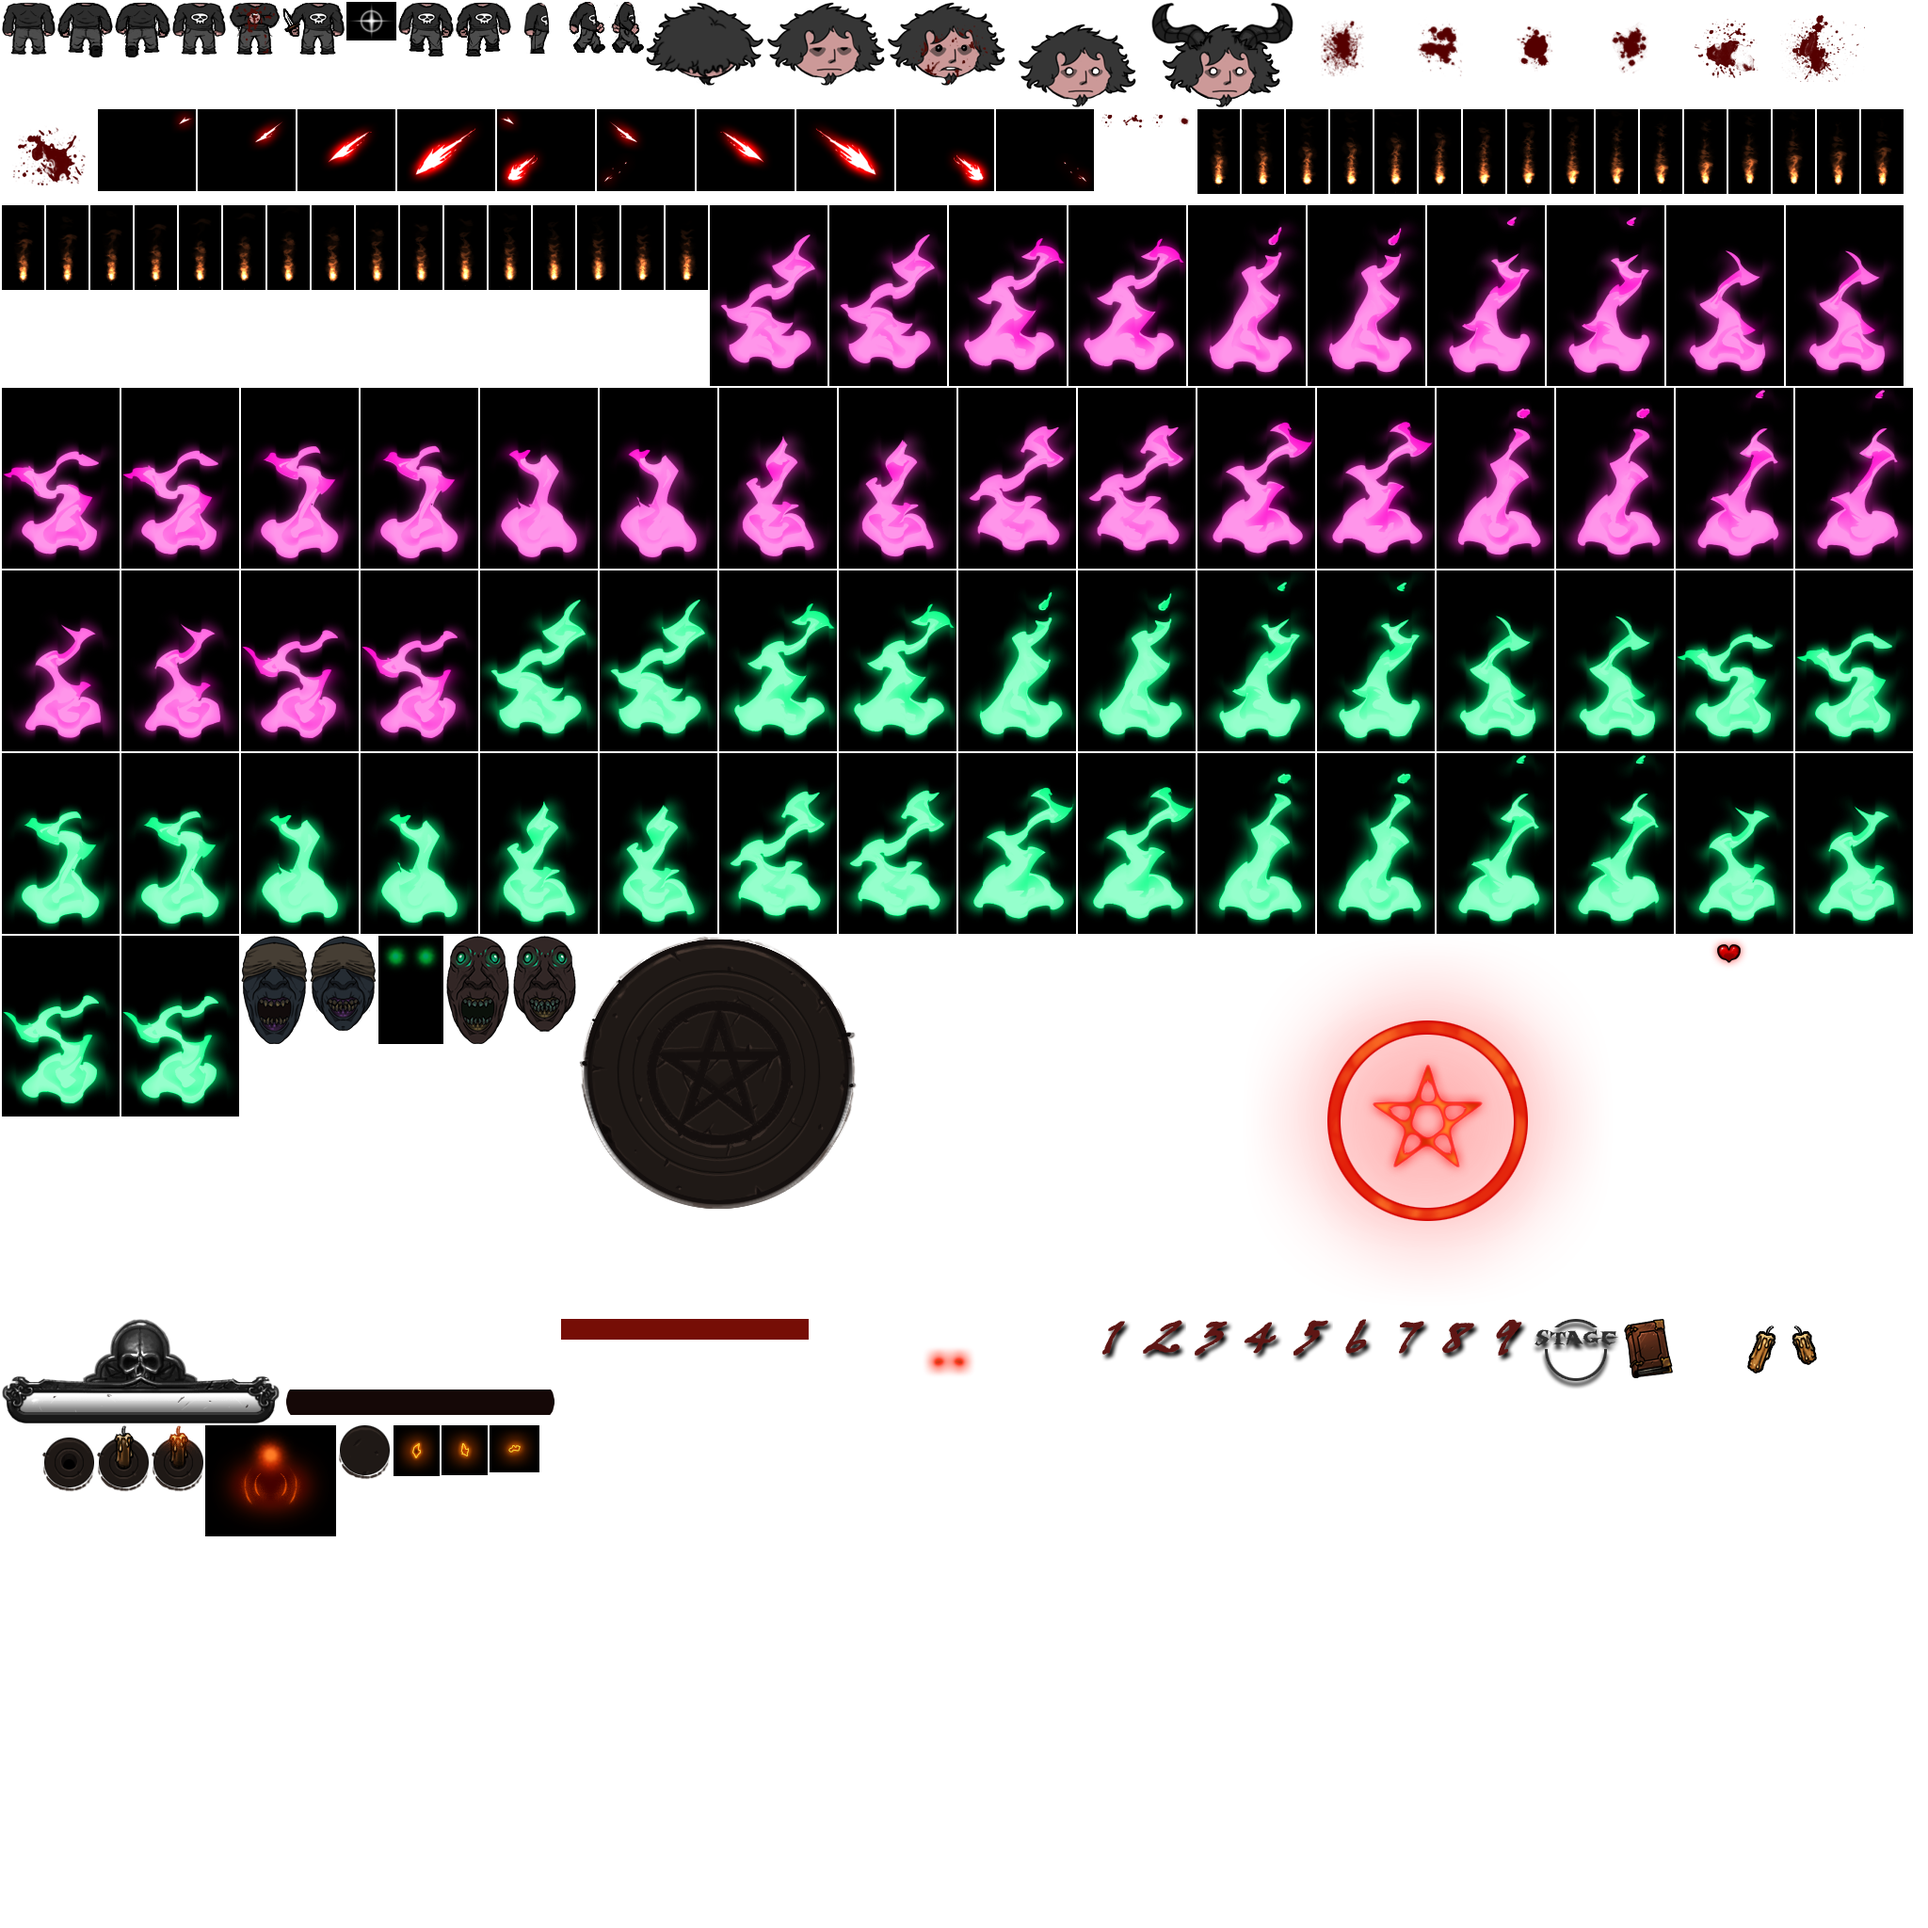
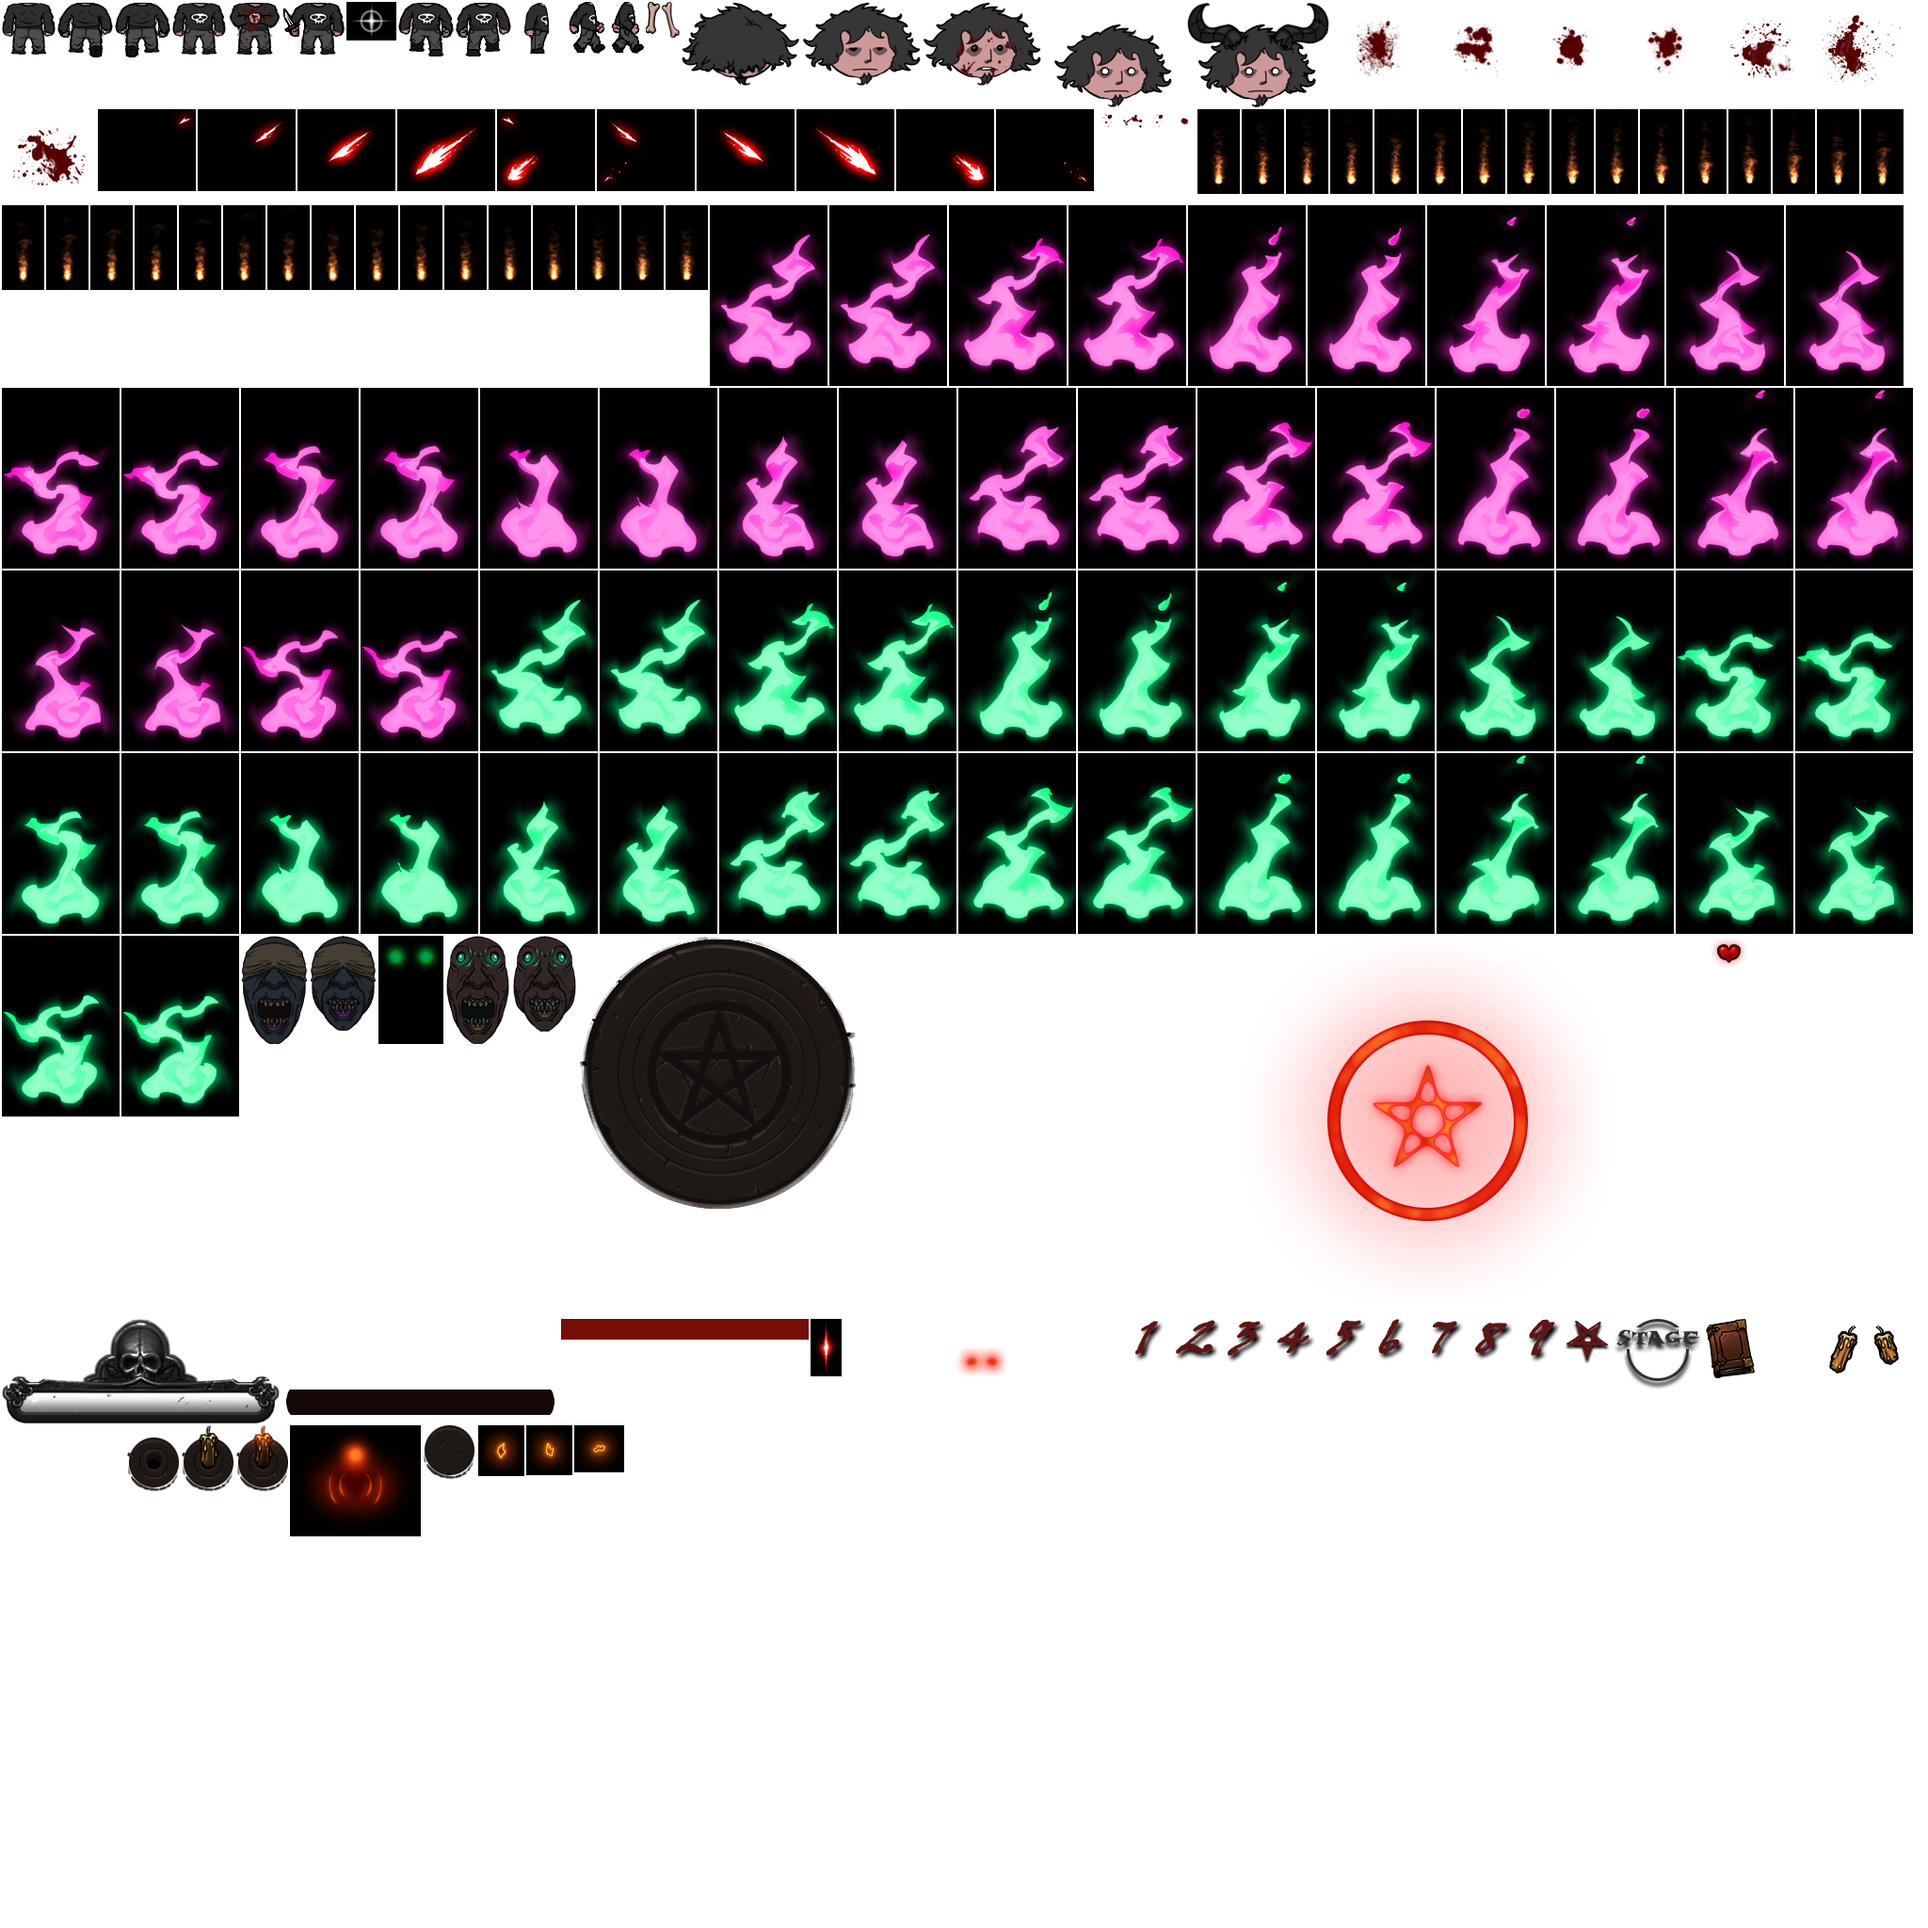
Finalizations: 1. bones 2. lifebar stuff 3. endscene

diff --git a/core/src/com/retrom/ggj2016/game/World.java b/core/src/com/retrom/ggj2016/game/World.java
@@ -10,6 +10,7 @@ import com.badlogic.gdx.graphics.glutils.ShapeRenderer.ShapeType;
 import com.badlogic.gdx.math.Vector2;
 import com.retrom.ggj2016.assets.Assets;
 import com.retrom.ggj2016.assets.SoundAssets;
+import com.retrom.ggj2016.objects.Bone;
 import com.retrom.ggj2016.objects.Book;
 import com.retrom.ggj2016.objects.Candle;
 import com.retrom.ggj2016.objects.CandlePoint;
@@ -65,6 +66,7 @@ public class World {
 	private Player player = new Player(lifebar);
 	private Heart heart = null;
 	private Book book;
+	final private List<Bone> bones = new ArrayList<Bone>();
 
 	private Painting painting;
 	
@@ -129,6 +131,7 @@ public class World {
 		state = GameState.BEFORE_CANDLES;
 		enemies.clear();
 		candles.clear();
+		bones.clear();
 		explosion = null;
 		deathTime = 0;
 		slashTime = 0;
@@ -297,9 +300,11 @@ public class World {
 			painTime -= deltaTime;
 		}
 		
-		if (gameTime < 0.5f && level > 0) {
+		if (gameTime < 4 && finish) {
+			whiteFade = 1 - gameTime / 4;
+		} else if (gameTime < 0.5f) {
 			float val = 1-(gameTime * 2);
-			if (newlevel) {
+			if (newlevel && level > 0) {
 				whiteFade = val;
 			} else {
 				fade = val;
@@ -307,6 +312,10 @@ public class World {
 		} else {
 			fade = 0;
 			whiteFade = 0;
+		}
+		
+		for (Bone bone : bones) {
+			bone.update(deltaTime);
 		}
 		
 		lifebar.update(deltaTime);
@@ -532,6 +541,11 @@ public class World {
 			SoundAssets.stopHeartBeat();
 			player.die();
 			SoundAssets.playSound(SoundAssets.playerDie);
+			int numbones = (int) (Math.random() * 6 + 6);
+			for (int i=0; i < numbones; i++) {
+				bones.add(new Bone(player.position.cpy()));
+				System.out.println("new bone");
+			}
 		}
 		if (explosion.getStarted()) {
 			for (int i=0; i < 600; i++) {
@@ -740,6 +754,11 @@ public class World {
 			if (hatch != null) hatch.render(batch);
 			player.render(batch);
 		}
+		
+		for (Bone bone : bones) {
+			bone.render(batch);
+		}
+		
 		if (!shouldShowLogo()) {
 			for (Candle candle : candles) {
 				if (state == GameState.BEFORE_CANDLES && candle.overPlayer())
@@ -817,42 +836,47 @@ public class World {
 			lifebar.render(shapeRenderer, batch);
 		}
 		
-		
-		renderFade(shapeRenderer);
-		
-		
 		if (shouldShowLogo()) {
 			BatchUtils.setBlendFuncNormal(batch);
 			batch.begin();
 			utils.drawCenter(batch, Assets.logo, 0, 0);
 			batch.end();
 		}
+		renderFade(shapeRenderer);
 	}
 	
 	private void renderEndScene(SpriteBatch batch, ShapeRenderer shapeRenderer) {
 		BatchUtils.setBlendFuncNormal(batch);
 		System.out.println("endscene");
-		batch.begin();
 		
 		Sprite note = Assets.endNote;
 		note.setAlpha(Math.min(1,gameTime * 2));
 		
 		System.out.println("gameTime="+gameTime);
 		
-		if (gameTime < 0.5f) {
-			float t = gameTime * 2;
+		gameTime -= 1; // Hack: move time backwards and then forward.
+		if (gameTime < 0) {
+			gameTime += 1;
+			return;
+		}
+		
+		batch.begin();
+		if (gameTime < 1f) {
+			float t = gameTime;
 			t = 1 - (1-t) * (1-t);
 			note.setScale(0.5f*(1-t) + t * 0.9f);
-			note.setRotation((-2)*(1-t) + -5f * t);
-			note.setAlpha(1);
+			note.setRotation((-5)*(1-t) + -2f * t);
+			note.setAlpha(t);
 		} else if (gameTime < 15f) {
-			float t = (gameTime - 0.5f) / 14.5f;
+			float t = (gameTime - 1f) / (15 - 1);
 			t = (float) Math.sqrt(t);
 			note.setScale(0.9f*(1-t) + 1 * t);
-			note.setRotation((-5)*(1-t) + 0f * t);
+			note.setRotation((-2)*(1-t) + 0f * t);
 			note.setAlpha(1);
-		} else if (gameTime < 20) {
-			float t = (gameTime - 15) / (20 - 15);
+		} else if (gameTime < 25) {
+			note.setAlpha(1);
+		} else if (gameTime < 30) {
+			float t = (gameTime - 25) / (30 - 25);
 			note.setAlpha(1-t);
 		} else {
 			note.setAlpha(0);
@@ -861,33 +885,35 @@ public class World {
 		
 		// First glow layer.
 		Sprite noteGlow = Assets.endNoteGlow;
-		if (gameTime < 15f) {
+		if (gameTime < 20.5f){
 			noteGlow.setAlpha(0);
-		} else if (gameTime < 18) {
-			float t = (gameTime - 15f) / 3;
-			noteGlow.setAlpha(t);
-		} else if (gameTime < 20.5f){
+		} else if (gameTime < 23) {
+			float t = (gameTime - 20.5f) / (23f - 20.5f);
+			noteGlow.setAlpha(Math.min(1, Math.max(0, t)));
+		} else if (gameTime < 35){
 			noteGlow.setAlpha(1);
 		} else {
-			float t = (gameTime - 23f) / (20.5f - 23f);
-			noteGlow.setAlpha(Math.min(1, Math.max(0, t)));
-		} 
+			float t = (gameTime - 35f) / (40f - 35f);
+			noteGlow.setAlpha(Math.max(0,  1-t));
+		}
 		utils.drawCenter(batch, noteGlow, 0, 0);
 		
 		// Second glow layer.
-		if (gameTime < 18) {
+		if (gameTime < 25) {
 			noteGlow.setAlpha(0);
-		} else if (gameTime < 20.5f) {
-			float t = (gameTime - 18) / (20.5f - 18f);
+		} else if (gameTime < 35f) {
+			float t = (gameTime - 25) / (35f - 25f);
 			noteGlow.setAlpha((float) Math.sin(t * Math.PI));
-		} else if (gameTime < 23f) {
+		} else if (gameTime < 40f) {
+			noteGlow.setAlpha(0);
+		} else {
 			noteGlow.setAlpha(0);
 		}
 		utils.drawCenter(batch, noteGlow, 0, 0);
 		
+		gameTime += 1;
 		
 		batch.end();
-//		renderFade(shapeRenderer);
 	}
 
 	private void openBook() {

diff --git a/core/src/com/retrom/ggj2016/objects/Bone.java b/core/src/com/retrom/ggj2016/objects/Bone.java
@@ -1,0 +1,70 @@
+package com.retrom.ggj2016.objects;
+
+import com.badlogic.gdx.graphics.g2d.Sprite;
+import com.badlogic.gdx.graphics.g2d.SpriteBatch;
+import com.badlogic.gdx.math.Vector2;
+import com.retrom.ggj2016.assets.Assets;
+import com.retrom.ggj2016.game.World;
+import com.retrom.ggj2016.utils.utils;
+
+public class Bone extends DynamicGameObject {
+	
+	final private Sprite sprite = Assets.bones.random();
+	
+	final private float scale = (float) (0.75f + Math.random() * 0.25f);
+	final private boolean flip = Math.random() < 0.5f;
+	
+	private float stateTime = 0;
+	float rotation = (float) (Math.random() * 360f);
+	int rotationSpeed = (int) Math.random() * 2 - 1;
+	
+	public Bone(Vector2 position) {
+		super(position.x, position.y, 0, 0);
+		velocity = utils.randomDir(400 + (float)Math.random() * 1200); 
+	}
+
+	public void update(float deltaTime) {
+		stateTime += deltaTime;
+		if (stateTime < Player.TIME_BEFORE_EXPLODE) return;
+		System.out.println("after explode.");
+		position.x += velocity.x * deltaTime;
+		position.y += velocity.y * deltaTime;
+		
+		if (position.x > World.BOUNDS) velocity.x = -Math.abs(velocity.x);
+		if (position.x < -World.BOUNDS) velocity.x = Math.abs(velocity.x);
+		if (position.y > World.BOUNDS) velocity.y = -Math.abs(velocity.y);
+		if (position.y < -World.BOUNDS) velocity.y = Math.abs(velocity.y);
+		
+		bounds.x = position.x - bounds.width / 2;
+		bounds.y = position.y - bounds.height / 2;
+		
+		velocity.x *= Math.pow(0.01, deltaTime);
+		velocity.y *= Math.pow(0.01, deltaTime);
+		
+		rotation += rotationSpeed * velocity.len() * deltaTime;
+	}
+	
+	public void render(SpriteBatch batch) {
+		if (stateTime < Player.TIME_BEFORE_EXPLODE) return;
+//		float alpha = 1;
+//		if (stateTime > DURATION - FADE_OUT_TIME) {
+//			alpha = 1 - ((stateTime - DURATION + FADE_OUT_TIME) / FADE_OUT_TIME); 
+//		}
+//		
+//		float scale = 1;
+//		if  (stateTime < GROW_IN_TIME) {
+//			scale = stateTime / GROW_IN_TIME * 1.2f;
+//		} else {
+//			scale = (float)Math.max(1, 1.2 + (GROW_IN_TIME - stateTime));
+//		}
+//		Sprite s = Assets.heart;
+//		s.setAlpha(alpha);
+//		s.setScale(scale);
+		sprite.setRotation(rotation);
+		sprite.setScale(scale);
+		sprite.setFlip(true, flip);
+		utils.drawCenter(batch, sprite, position.x, position.y);
+		
+	}
+
+}

diff --git a/core/src/com/retrom/ggj2016/assets/Assets.java b/core/src/com/retrom/ggj2016/assets/Assets.java
@@ -42,6 +42,7 @@ public class Assets {
 	public static Sprite lifeBarOver;
 	public static Sprite lifeBarBg;
 	public static Sprite lifeBarEyes;
+	public static Sprite lifeBarFlare;
 
 	public static Array<Sprite> enemyFire;
 	
@@ -82,8 +83,11 @@ public class Assets {
 	public static Sprite stageNumberBg;
 	
 	public static Array<Sprite> stageNumberNum;
+	public static Sprite stageNumberPentagram;
 	
 	public static Sprite hatchUX;
+
+	public static Array<Sprite> bones;
 	
 	public static void init() {
 		TextureAtlas basicSheet = new TextureAtlas("basic.txt");
@@ -120,6 +124,7 @@ public class Assets {
 		lifeBarOver = basicSheet.createSprite("hud_healthbar");
 		lifeBarBg = basicSheet.createSprite("hud_healthbar_bg");
 		lifeBarEyes = basicSheet.createSprite("hud_healthbar_lowhealthglow");
+		lifeBarFlare = basicSheet.createSprite("hud_healthbar_flare");
 		
 		playerWalkFront = basicSheet.createSprites("Player_body_front_walking");
 		playerWalkBack = basicSheet.createSprites("Player_body_back_walking");
@@ -146,8 +151,11 @@ public class Assets {
 		
 		stageNumberBg = basicSheet.createSprite("hud_stagenumber_slot");
 		stageNumberNum = basicSheet.createSprites("hud_stagenumber");
+		stageNumberPentagram = basicSheet.createSprite("hud_stagenumber_final"); 
 		
 		hatchUX = basicSheet.createSprite("floorhatch_UX");
+		
+		bones = basicSheet.createSprites("Player_deadbones");
 		
 		TextureAtlas bgSheet = new TextureAtlas("bg.txt");
 		bg = bgSheet.createSprite("bg");

diff --git a/core/src/com/retrom/ggj2016/game/LifeBar.java b/core/src/com/retrom/ggj2016/game/LifeBar.java
@@ -40,8 +40,17 @@ public class LifeBar {
 		utils.drawCenter(batch, Assets.lifeBarOver, 0, Y);
 		{
 			Sprite s = Assets.lifeBarEyes;
-			s.setAlpha(eyesAlpha);
+			
 			utils.drawCenter(batch, s, 0, Y);
+			s.setAlpha(eyesAlpha);
+		}
+		{
+			BatchUtils.setBlendFuncAdd(batch);
+			Sprite s = Assets.lifeBarFlare;
+			float alpha = Math.min(1, 1 - (life - 0.95f) / 0.05f);
+			s.setColor(alpha, alpha, alpha, 1);
+			utils.drawCenter(batch, s,  MAX_WIDTH * life - MAX_WIDTH / 2, Y - 44f + HEIGHT / 2);
+			BatchUtils.setBlendFuncNormal(batch);
 		}
 		batch.end();
 	}
@@ -60,7 +69,11 @@ public class LifeBar {
 		if (addLifeBlinkTime > 0 || (blinking  && stateTime > 0.4f && (stateTime % 0.3f > 0.15f))) {
 			renderer.setColor(1, 0.15f, 0.1f, 1);
 		} else {
-			renderer.setColor(0.33f, 0, 0, 1);
+			float t = eyesAlpha * 0.4f;
+			float r = 0.33f * (1 - t) + 1 * t;
+			float g = 0 * (1 - t) + 0.15f * t;
+			float b = 0 * (1 - t) + 0.1f * t;
+			renderer.setColor(r, g, b, 1);
 		}
 		
 		renderer.rect(X, Y - 44f, MAX_WIDTH * life, HEIGHT);

diff --git a/core/src/com/retrom/ggj2016/game/LevelNumberHud.java b/core/src/com/retrom/ggj2016/game/LevelNumberHud.java
@@ -19,14 +19,12 @@ public class LevelNumberHud {
 		if (level == 0) return;
 		BatchUtils.setBlendFuncNormal(batch);
 		utils.drawCenter(batch, Assets.stageNumberBg, 0, Y);
-		if (level != World.PENTAGRAM_LEVEL) {
-			Sprite numberSprite = Assets.stageNumberNum.get(level-1);
+		if (level == World.PENTAGRAM_LEVEL) {
+			Sprite numberSprite = Assets.stageNumberPentagram;
 			utils.drawCenter(batch, numberSprite, 0, Y - 20);
 		} else {
-			Sprite numberSprite = Assets.stageNumberNum.get(6-1);
-			utils.drawCenter(batch, numberSprite, -30, Y - 20);
+			Sprite numberSprite = Assets.stageNumberNum.get(level-1);
 			utils.drawCenter(batch, numberSprite, 0, Y - 20);
-			utils.drawCenter(batch, numberSprite, 30, Y - 20);
 		}
 	}
 }

diff --git a/core/src/com/retrom/ggj2016/GGJ2016.java b/core/src/com/retrom/ggj2016/GGJ2016.java
@@ -1,9 +1,6 @@
 package com.retrom.ggj2016;
 
 import com.badlogic.gdx.Game;
-import com.badlogic.gdx.Gdx;
-import com.badlogic.gdx.graphics.GL20;
-import com.badlogic.gdx.graphics.Texture;
 import com.badlogic.gdx.graphics.g2d.SpriteBatch;
 import com.retrom.ggj2016.assets.Assets;
 import com.retrom.ggj2016.assets.SoundAssets;
